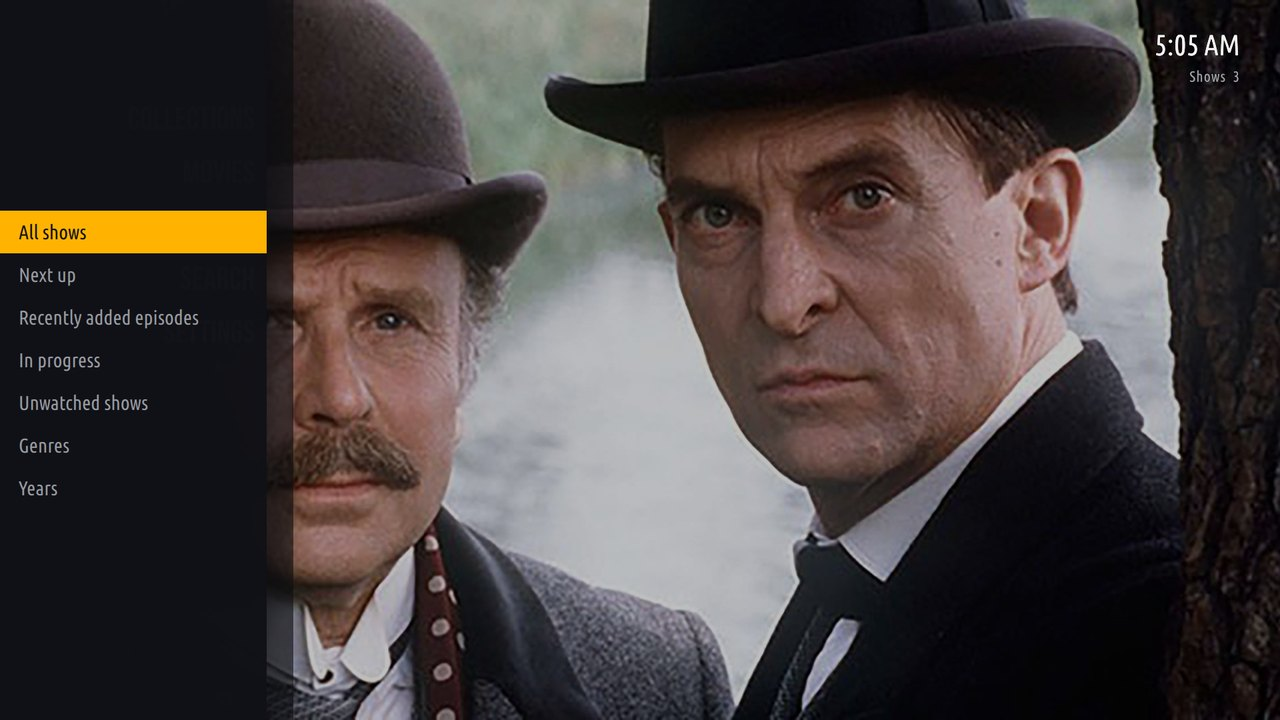
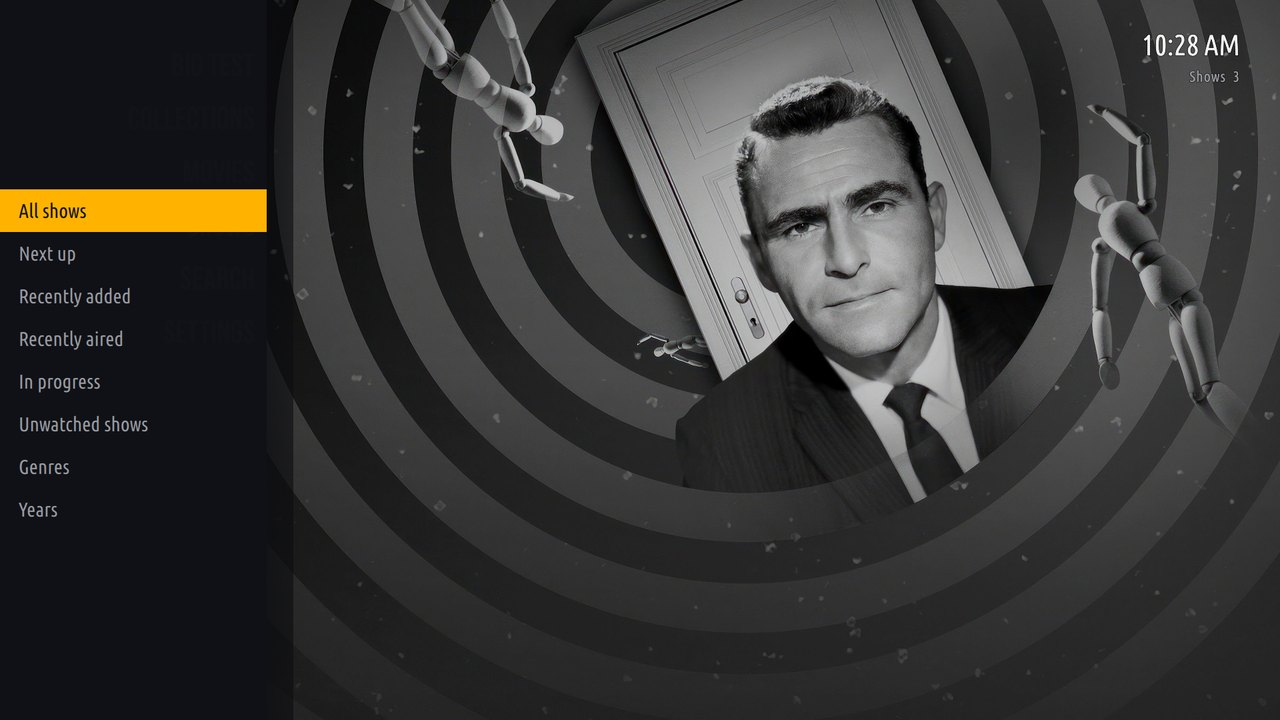
Move Recently added and Recently aired to the home submenu
They belong to the library as a whole, so they sit with the other
listings in the submenu that Left opens on the home menu, not in the
view options of a list. A show library's Recently aired lists episodes
from all its shows. Recently added replaces "Recently added episodes"
there, and every library type other than collections gets both.

The README's submenu shot is retaken, and a Recently aired shot replaces
the view options one.

diff --git a/src/qml/pages/HomePage.qml b/src/qml/pages/HomePage.qml
@@ -23,31 +23,41 @@ FocusScope {
         const types = page.app.libraryTypes(library.collectionType)
         const context = { libraryId: library.id, collectionType: library.collectionType, viewKey: library.id }
         const all = { mode: "items", parentId: library.id, includeTypes: types, recursive: types !== "" }
+        // The library's playable items (films, episodes) newest first: by
+        // date added, or by the date they aired or became available.
+        const leaves = { parentId: library.id, includeTypes: page.app.leafTypes(library.collectionType) }
+        const added = Object.assign({ mode: "items", recursive: true, sortBy: "DateCreated", descending: true }, leaves)
+        const aired = Object.assign({ mode: "aired" }, leaves)
         const entries = []
         function add(title, query, extra) {
             entries.push({ title: title, query: query, context: Object.assign({}, context, extra || {}) })
         }
+        function addRecent() {
+            add(qsTr("Recently added"), added, { viewKey: library.id + "-recent", fixedSort: true,
+                                                 listTitle: library.name + " · " + qsTr("Recently added") })
+            add(qsTr("Recently aired"), aired, { viewKey: library.id + "-aired", fixedSort: true,
+                                                 listTitle: library.name + " · " + qsTr("Recently aired") })
+        }
         if (library.collectionType === "movies") {
-            add(qsTr("All movies"), all, { libraryRoot: true })
-            add(qsTr("Recently added"), Object.assign({}, all, { sortBy: "DateCreated", descending: true }), { viewKey: library.id + "-recent", fixedSort: true })
+            add(qsTr("All movies"), all)
+            addRecent()
             add(qsTr("In progress"), { mode: "resume", parentId: library.id, includeTypes: "Movie" }, { viewKey: "", fixedSort: true })
             add(qsTr("Unwatched"), Object.assign({}, all, { hideWatched: true }), { viewKey: library.id + "-unwatched" })
             add(qsTr("Genres"), { mode: "genres", parentId: library.id, includeTypes: "Movie" }, { viewKey: "", fixedSort: true })
             add(qsTr("Years"), { mode: "years", parentId: library.id, includeTypes: "Movie" }, { viewKey: "", fixedSort: true })
             add(qsTr("Collections"), { mode: "items", includeTypes: "BoxSet", recursive: true }, { viewKey: "collections" })
         } else if (library.collectionType === "tvshows") {
-            add(qsTr("All shows"), all, { libraryRoot: true })
+            add(qsTr("All shows"), all)
             add(qsTr("Next up"), { mode: "nextup", parentId: library.id }, { viewKey: "", fixedSort: true })
-            add(qsTr("Recently added episodes"), { mode: "items", parentId: library.id, includeTypes: "Episode", recursive: true,
-                                                   sortBy: "DateCreated", descending: true }, { viewKey: "", fixedSort: true })
+            addRecent()
             add(qsTr("In progress"), { mode: "resume", parentId: library.id, includeTypes: "Episode" }, { viewKey: "", fixedSort: true })
             add(qsTr("Unwatched shows"), Object.assign({}, all, { hideWatched: true }), { viewKey: library.id + "-unwatched" })
             add(qsTr("Genres"), { mode: "genres", parentId: library.id, includeTypes: "Series" }, { viewKey: "", fixedSort: true })
             add(qsTr("Years"), { mode: "years", parentId: library.id, includeTypes: "Series" }, { viewKey: "", fixedSort: true })
         } else {
-            add(qsTr("Browse"), all, { libraryRoot: true })
-            add(qsTr("Recently added"), { mode: "items", parentId: library.id, recursive: true, includeTypes: "Movie,Episode,Video",
-                                          sortBy: "DateCreated", descending: true }, { viewKey: "", fixedSort: true })
+            add(qsTr("Browse"), all)
+            // A collection library's films aren't its descendants.
+            if (library.collectionType !== "boxsets") addRecent()
             add(qsTr("In progress"), { mode: "resume", parentId: library.id }, { viewKey: "", fixedSort: true })
         }
         return entries
@@ -208,7 +218,7 @@ FocusScope {
             onActivated: (index) => {
                 const entry = submenu.model[index]
                 page.closeSubmenu()
-                page.app.openList(entry.title, entry.query, entry.context)
+                page.app.openList(entry.context.listTitle || entry.title, entry.query, entry.context)
             }
             Keys.onPressed: (event) => {
                 if (event.key === Qt.Key_Right || event.key === Qt.Key_Back || event.key === Qt.Key_Left) {

diff --git a/src/qml/Main.qml b/src/qml/Main.qml
@@ -32,7 +32,7 @@ Window {
     }
 
     // The playable items a library holds, for its Recently added and
-    // Recently aired lists.
+    // Recently aired submenu entries.
     function leafTypes(collectionType) {
         switch (collectionType) {
         case "movies": return "Movie"
@@ -47,19 +47,7 @@ Window {
         const types = libraryTypes(library.collectionType)
         openList(library.name, {
             mode: "items", parentId: library.id, includeTypes: types, recursive: types !== ""
-        }, { libraryId: library.id, collectionType: library.collectionType, viewKey: library.id, libraryRoot: true })
-    }
-
-    // A library's newest playable items: by date added, or by the date they
-    // aired (or became available, when that was earlier).
-    function openRecent(title, context, aired) {
-        const query = { parentId: context.libraryId, includeTypes: leafTypes(context.collectionType) }
-        if (aired) Object.assign(query, { mode: "aired" })
-        else Object.assign(query, { mode: "items", recursive: true, sortBy: "DateCreated", descending: true })
-        openList(title, query, {
-            libraryId: context.libraryId, collectionType: context.collectionType, fixedSort: true,
-            viewKey: context.libraryId + (aired ? "-aired" : "-recent")
-        })
+        }, { libraryId: library.id, collectionType: library.collectionType, viewKey: library.id })
     }
 
     function openList(title, query, context) {

diff --git a/src/qml/pages/LibraryPage.qml b/src/qml/pages/LibraryPage.qml
@@ -157,11 +157,6 @@ FocusScope {
         ]
         const views = [["list", qsTr("List")], ["low", qsTr("Low list")], ["tall", qsTr("Tall list")],
                        ["big", qsTr("Big list")], ["simple", qsTr("Simple list")]]
-        // A whole library also offers its newest items, as lists of their own.
-        if (context.libraryRoot && context.collectionType !== "boxsets") {
-            add(qsTr("Recently added"), "", () => page.app.openRecent(page.title + " · " + qsTr("Recently added"), page.context, false))
-            add(qsTr("Recently aired"), "", () => page.app.openRecent(page.title + " · " + qsTr("Recently aired"), page.context, true))
-        }
         add(qsTr("View"), (views.find(v => v[0] === page.viewType) || views[0])[1], () => {
             page.app.menu.open(qsTr("View"), views.map(v => ({ title: v[1], checked: v[0] === page.viewType })),
                                (i) => page.setViewType(views[i][0]), "left")

diff --git a/PLAN.md b/PLAN.md
@@ -25,7 +25,7 @@ newer couchbox.
 | M4 playback | Done: direct play and HLS transcode, resume, progress reports, audio/subtitle menus, chapters, skip intro (chapter fallback), Up Next with auto-play, MPRIS, screen-saver inhibit. couchbox packaging prepared (couchbox branch `feat/ember`, not pushed). |
 | M5 Amber parity | Done: side blade (sort, order, hide watched), A–Z strip, Channel ± paging, info page with cast, context menu, genres, years, collections, search, and the server's event stream (rows update when watched state changes elsewhere; lists reload after library changes). |
 | M6 polish | Done: trickplay preview on the seek bar, on-screen keyboard and search, Amber's Low, Tall, Big and Simple list styles besides List (remembered per library), home menu order and visibility, threaded render loop tried (no gain; basic kept). The GLib-free plane item is moot: the Qt port never used GLib. |
-| After first use | Amber's fonts (Ubuntu Condensed in capitals, Bebas Neue home menu), bundled. The side blade of a whole library offers Recently added and Recently aired (the library's playable items: films, episodes); Recently aired places an episode a streaming service released before its air date at the date it was added. Phone typing through KDE Connect submits with Enter (KDE Connect itself drops Shift; couchbox `UPSTREAM-BUGS.md` #25). |
+| After first use | Amber's fonts (Ubuntu Condensed in capitals, Bebas Neue home menu), bundled. A library's home submenu offers Recently added and Recently aired (the library's playable items across all its shows: films, episodes); Recently aired places an episode a streaming service released before its air date at the date it was added. Phone typing through KDE Connect submits with Enter (KDE Connect itself drops Shift; couchbox `UPSTREAM-BUGS.md` #25). |
 | Later | Cast target done: other Jellyfin clients can play to Ember ("Play On", with a queue), control playback, navigate (arrows, OK, Back, Home, menu) and send messages. Shelves, music and refresh-rate switching not started. |
 
 ## Goal
@@ -99,8 +99,12 @@ see "Scaling" below. Particulars get tuned after implementation.
   Settings.
 - **OK** opens the library's default listing (all items, sorted by name).
 - **Left** (or Back) slides a 400 px submenu in over the blade: Recently
-  Added, In Progress, Next Up (TV), Genres, Years, Collections, A-Z. **Right**
-  or Back returns.
+  Added, Recently Aired, In Progress, Next Up (TV), Genres, Years,
+  Collections, A-Z. **Right** or Back returns. Recently Added and Recently
+  Aired list the library's playable items (episodes of every show in a show
+  library). An item's aired date is its premiere date, or the date it was
+  added when that is earlier (episodes a service releases ahead of their
+  air date).
 - **Right** does nothing for now; it is where shelves go later.
 - Background: random fanart from the focused library, crossfading.
 
@@ -134,10 +138,7 @@ see "Scaling" below. Particulars get tuned after implementation.
   beginning (when in progress), Information, Mark watched/unwatched, Go to
   show, Go to season.
 - **Left** from a list opens the side blade (510 px): view type, sort by,
-  order, hide watched, filter (genre, year), search in this library. On a
-  whole library it also lists Recently added and Recently aired, each a list
-  of the library's playable items (episodes for shows). An item's aired date
-  is its premiere date, or the date it was added when that is earlier.
+  order, hide watched, filter (genre, year), search in this library.
 - **Right** from a list (when sorted by name) opens an A-Z strip on the right
   edge; Up/Down jumps letters.
 - **Channel Up/Down** page the list.

diff --git a/README.md b/README.md
@@ -22,11 +22,11 @@ all driven by a TV remote. Qt 6 (QML) and C++, with mpv for playback.
   </tr>
   <tr>
     <td><img src="docs/screenshots/episodes.jpg" alt="A season's episodes"></td>
-    <td><img src="docs/screenshots/side-blade.jpg" alt="The view options blade"></td>
+    <td><img src="docs/screenshots/recently-aired.jpg" alt="Recently aired episodes across a show library"></td>
   </tr>
   <tr>
     <td>Episodes, with watched and in-progress marks.</td>
-    <td>Left on a list opens the view options, including Recently added and Recently aired.</td>
+    <td>Recently aired: a show library's newest episodes, whichever show they belong to.</td>
   </tr>
   <tr>
     <td><img src="docs/screenshots/info.jpg" alt="An item's information page"></td>
@@ -47,15 +47,16 @@ whatever the server's metadata providers supplied.
   type its address), sign in with Quick Connect (or a user name and
   password), then choose which libraries the home menu shows.
 - **Home**: Up/Down move through the menu, OK opens a library, Left or Back
-  opens its submenu (recently added, in progress, genres, years,
-  collections and so on).
+  opens its submenu (recently added, recently aired, in progress, genres,
+  years, collections and so on). Recently added and Recently aired list the
+  library's films or episodes, newest first; an episode a streaming service
+  released before its air date counts as aired when it was added.
 - **Lists**: OK opens folders, shows and seasons, and plays movies and
   episodes (resuming where you left off). Info opens the item's details.
   Menu, or OK held for a moment, opens the context menu (play from the
   beginning, mark watched, go to the show). Left opens the view options
-  (sort, order, hide watched, list style; on a whole library also Recently
-  added and Recently aired); Right, when sorted by name, opens the A–Z
-  strip. Channel +/− page the list.
+  (sort, order, hide watched, list style); Right, when sorted by name,
+  opens the A–Z strip. Channel +/− page the list.
 - **Playing**: OK or Play/Pause pauses, Left/Right seek, Up/Down and
   Channel +/− jump between chapters, Menu (or held OK) picks audio,
   subtitles and chapters, Info shows or hides the panel, Back or Stop ends
